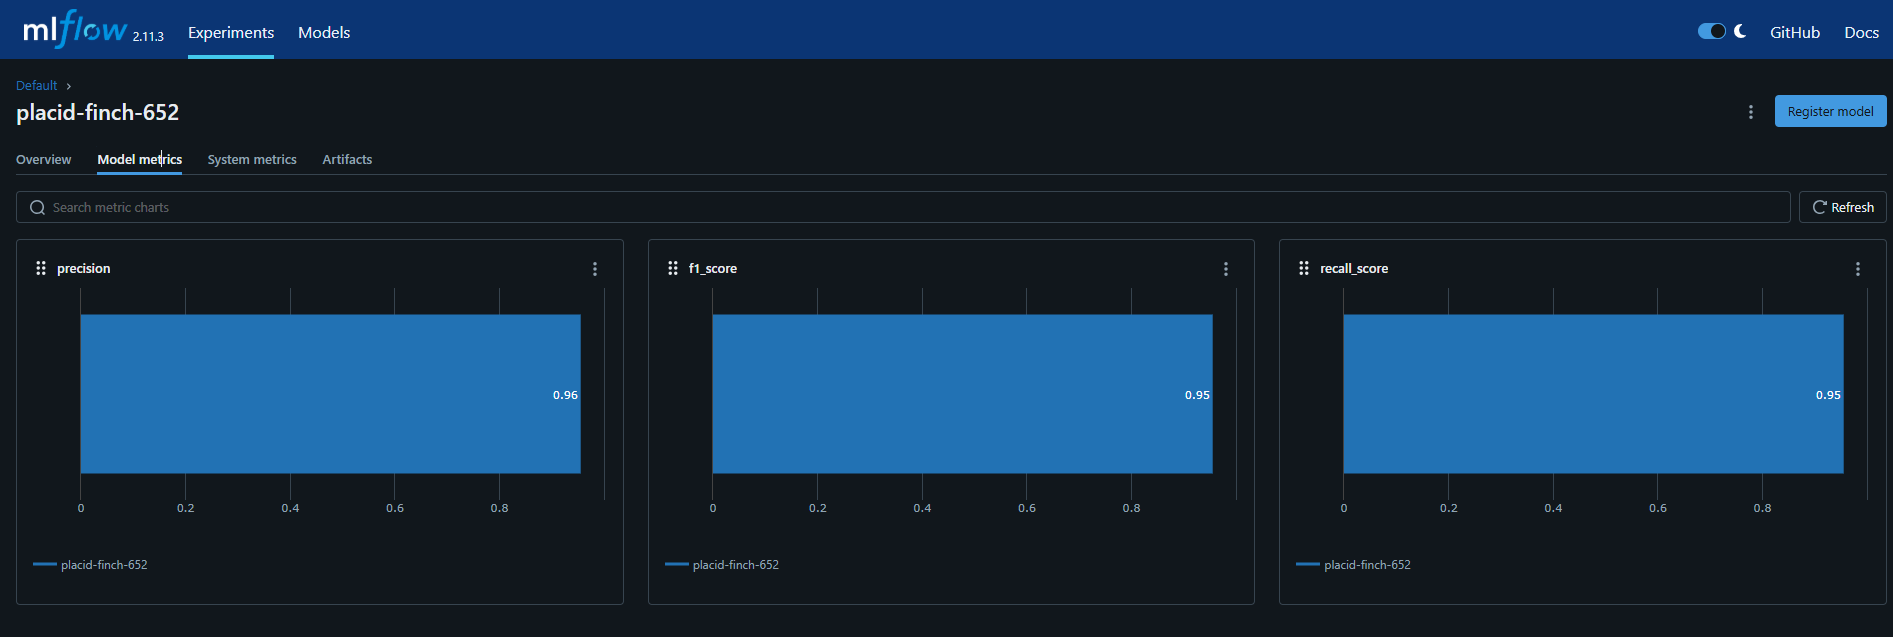
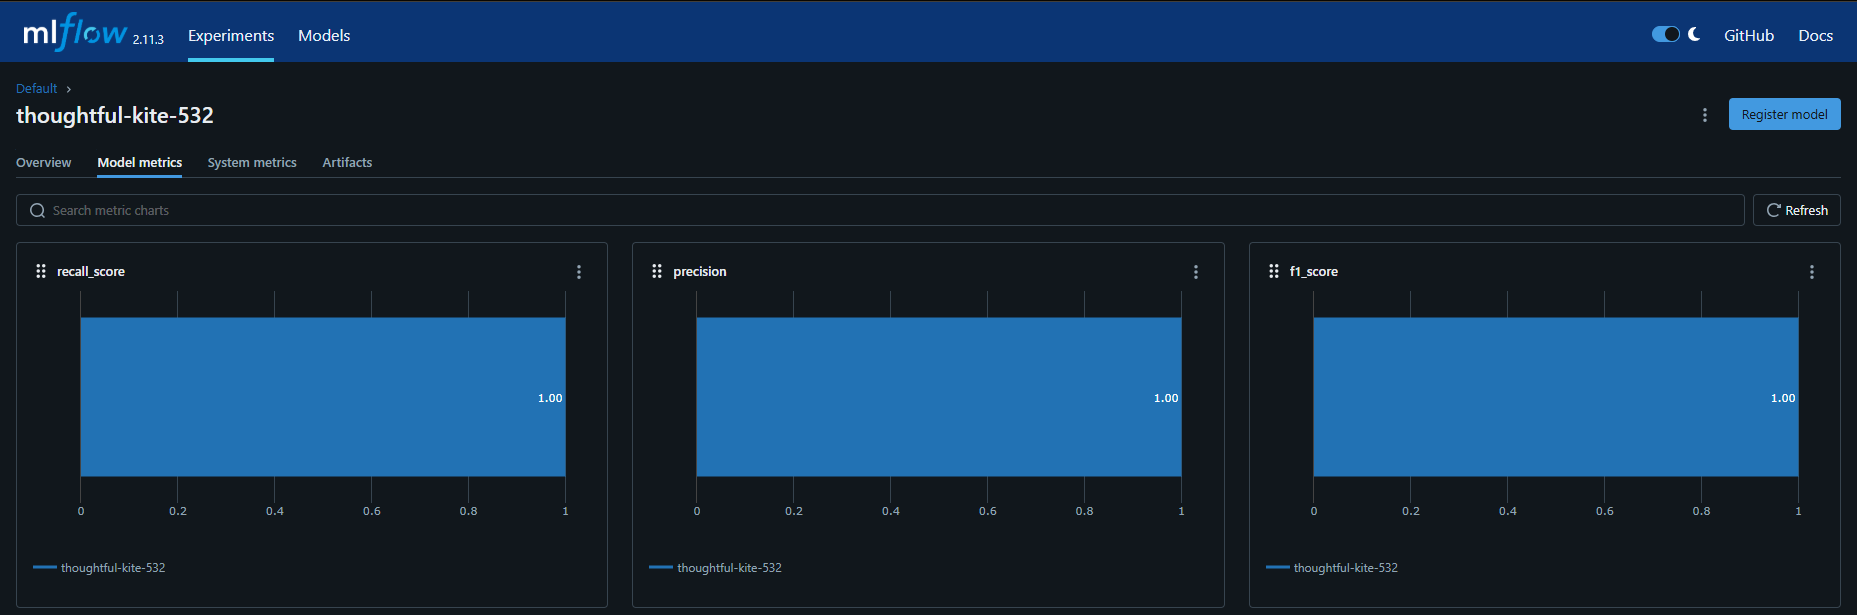
Model tuning completed

diff --git a/src/irisdataprediction/pipeline/data_transformation_pipeline.py b/src/irisdataprediction/pipeline/data_transformation_pipeline.py
@@ -27,7 +27,7 @@ class DataTransformationPipeline:
                     data_transformation_config=config.get_data_transformation_config()
                     data_transformation=DataTransformation(config=data_transformation_config,threshold=0.87)
                     data_transformation.data_standardization()
-                    data_transformation.remove_correlated_columns()
+                    #data_transformation.remove_correlated_columns()
                     data_transformation.train_test_spliting()
                 else:
                     logger.info("Transformation pipleline: Validation pipeline has issue , correct the same to proceed further!!!")

diff --git a/README.md b/README.md
@@ -22,7 +22,7 @@ This is one of the earliest datasets used in the literature on classification me
 
 Seems Overfitting , need to check what else can improve model accuracy score.
 
-Test :
+##### Test :---- When deleted features based on correlation heat map of independent feature.
 
 recall_score: 71%
 
@@ -30,17 +30,37 @@ f1_score: 69%
 
 precision: 71%
 
+##### Test ----included all independent features.
+
+recall_score: 89%
+
+f1_score: 90%
+
+precision: 90%
+
+<hr/>
+
 ![alt model test result](https://github.com/brajeshkumar1989/IrisDataPrediction/blob/main/images/Test_result.PNG)
 
 <hr/>
 
-Train
+##### Train ----When deleted features based on correlation heat map of independent feature.
 
 recall_score: 95%
 
 f1_score: 95%
 
 precision: 96%
+
+<hr/>
+
+##### Train ----included all independent features.
+
+recall_score: 100%
+
+f1_score: 100%
+
+precision: 100%
 
 <hr/>
 
@@ -84,4 +104,8 @@ precision: 96%
 
 ## InProgress:
 
-1. Model Tuning
+1. deployment and uiux
+
+##### author:
+
+#### Brajesh kumar
